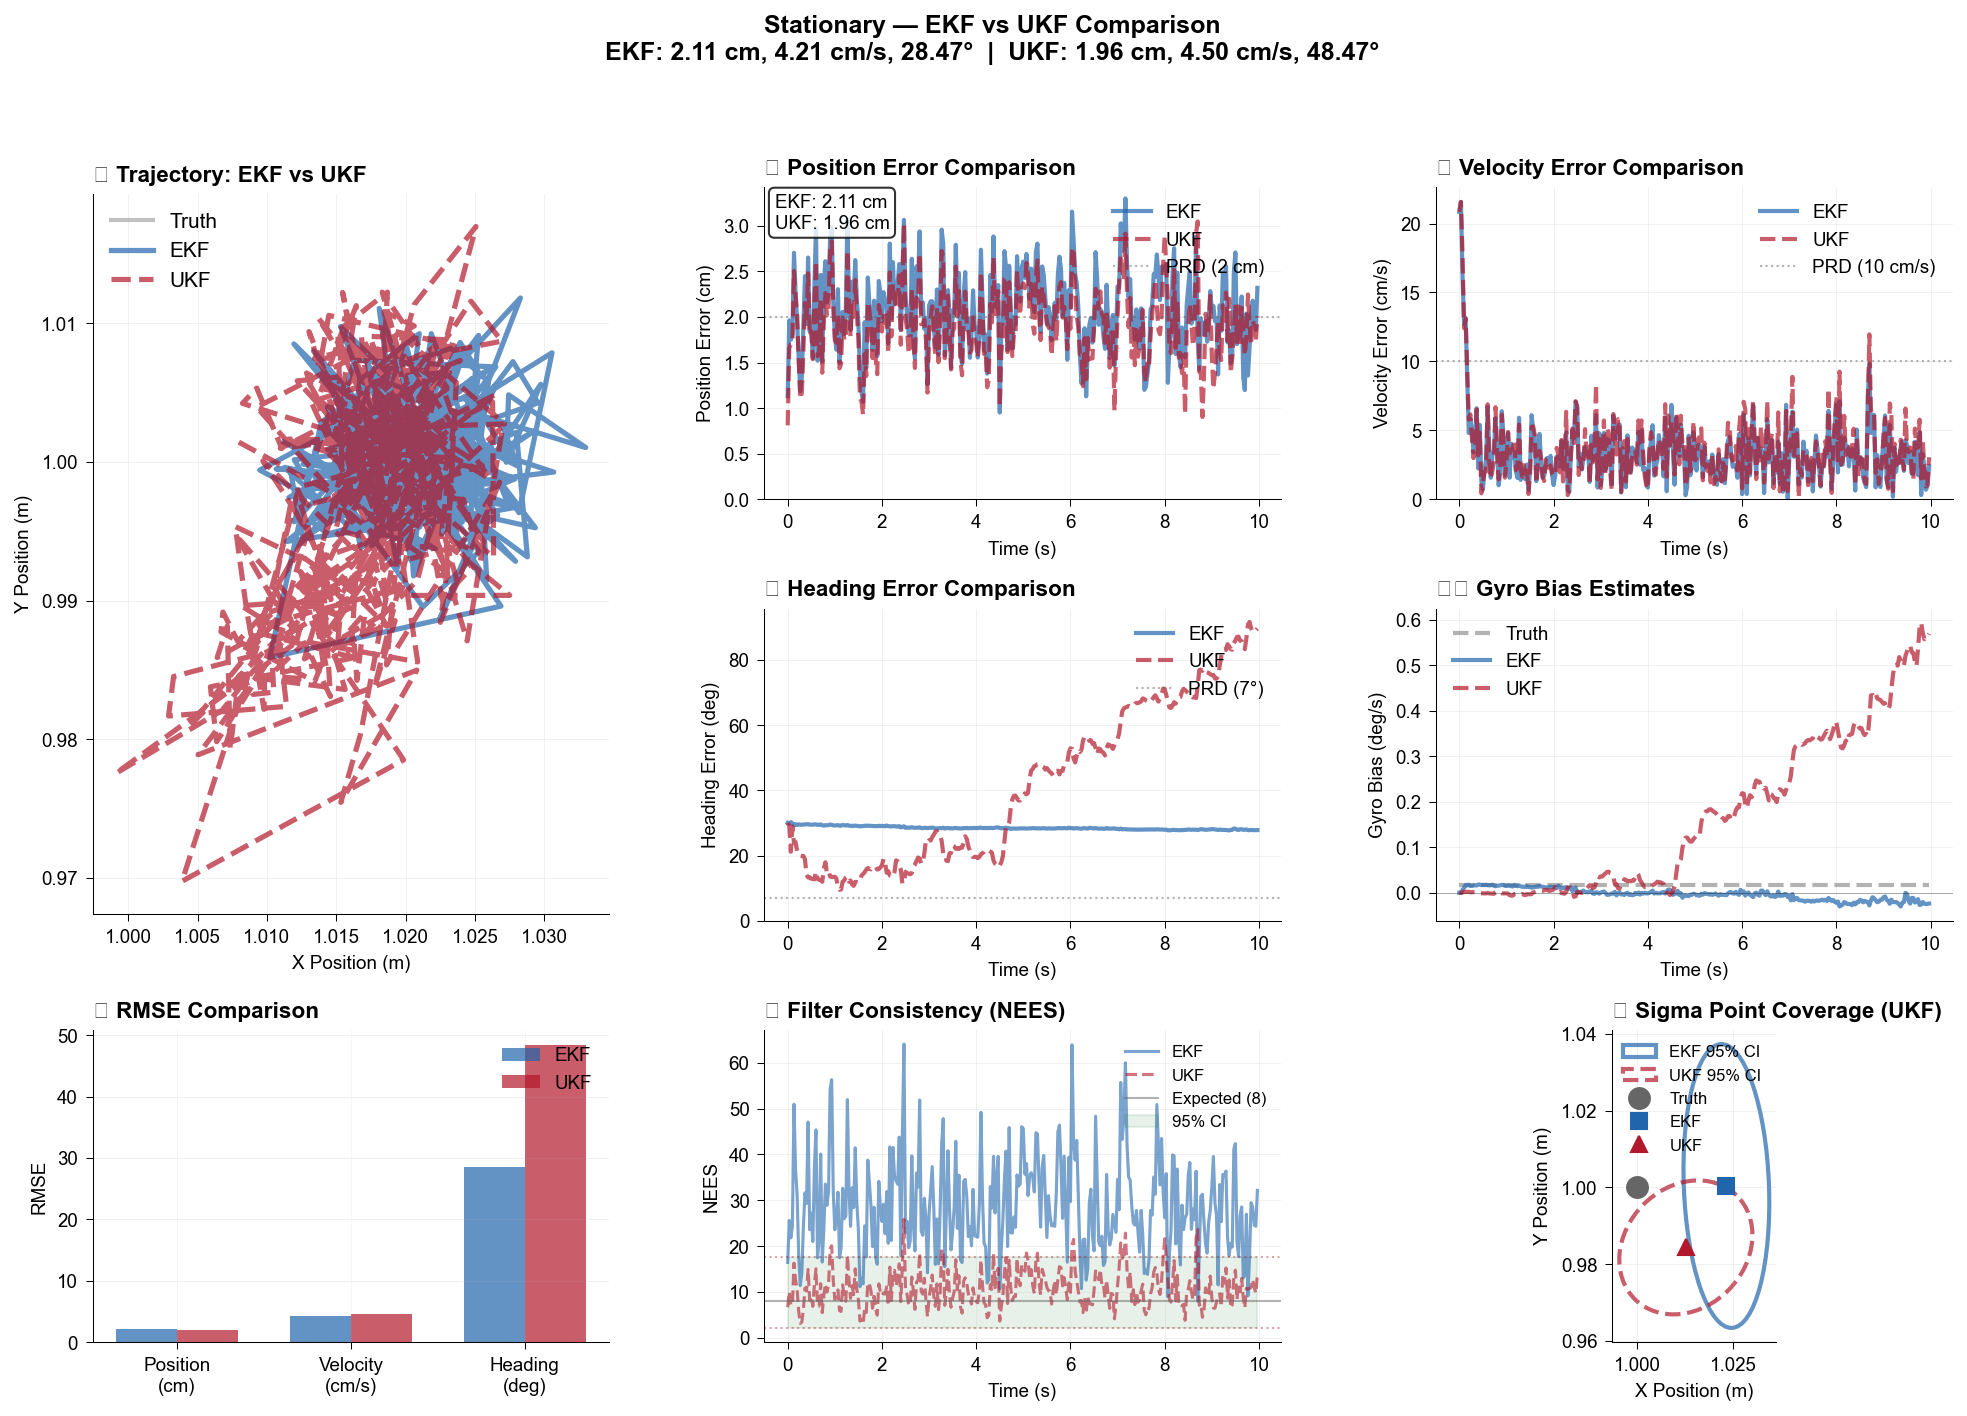
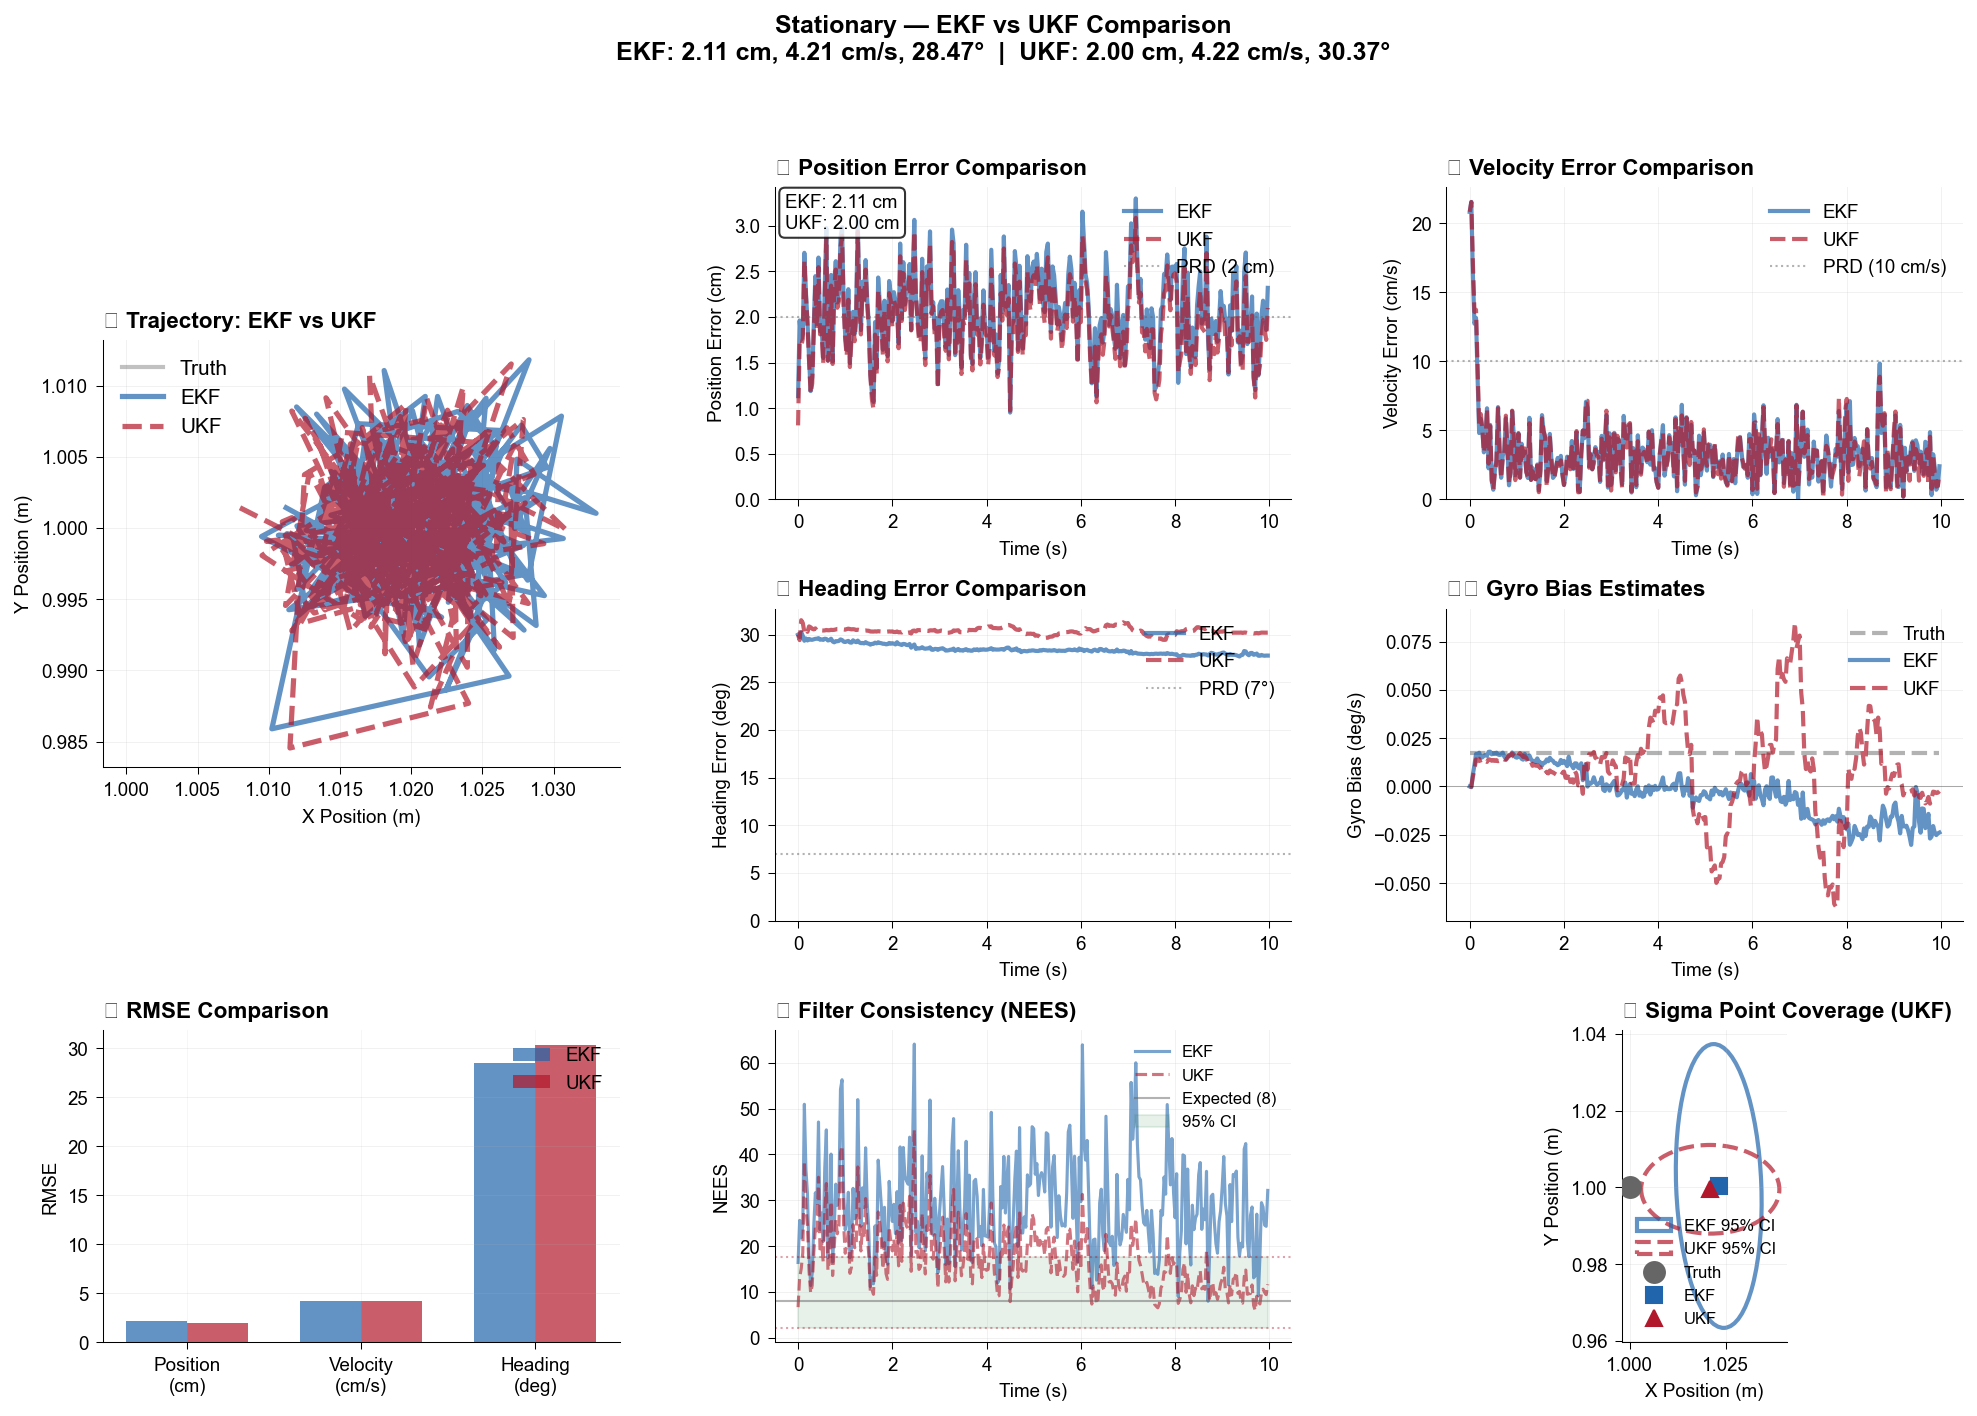
Fix UKF heading mean calculation using circular mean
Replaces arithmetic mean with circular mean for heading in UKF prediction and update steps to correctly handle angle wrap-around. Adds a regression test to verify correct behavior when sigma points straddle the 0°/360° boundary, preventing large heading estimation errors.

diff --git a/tests/filters/test_ukf_heading_measurement.py b/tests/filters/test_ukf_heading_measurement.py
@@ -203,3 +203,79 @@ def test_ukf_heading_basic_functionality():
 
     # Marginal log-likelihood should be finite
     assert np.isfinite(result_filtered.marginal_loglik)
+
+
+def test_ukf_circular_mean_near_wrap_point():
+    """UKF should use circular mean for heading, not arithmetic mean.
+
+    Regression test for bug where UKF used arithmetic mean for heading sigma
+    points. When sigma points straddle 0°/360°, arithmetic mean gives wrong
+    result (e.g., 180° instead of 0°).
+
+    This test simulates a rat starting near 0° heading with enough uncertainty
+    that sigma points spread across the wrap point.
+    """
+    # Simulate circular motion starting near 0° heading
+    # Circular motion ensures continuous rotation through 0°/360°
+    config_sim = SimpleSimConfig(
+        duration_s=10.0,
+        fs_cam=30.0,
+        fs_imu=200.0,
+        cam_dropout_prob=0.0,  # No dropouts for clean test
+    )
+
+    # Simulate circular motion (heading wraps multiple times)
+    result = simulate_circular(config=config_sim, radius=0.5, seed=42)
+
+    # UKF config with moderate heading uncertainty
+    config = UKFConfig(
+        use_heading_measurement=True,
+        measurement_noise_pos=0.005**2,
+        measurement_noise_heading=0.05**2,  # ~3° heading noise
+        process_noise_heading=1e-3,  # Moderate uncertainty growth
+        led_distance=0.04,
+        alpha=1.0,  # Standard sigma-point spread
+    )
+
+    # Run UKF
+    result_ukf = unscented_kalman_filter(
+        ukf_config=config,
+        t_imu=result["t_imu"],
+        U_imu=result["U_imu"],
+        t_cam=result["t_cam_obs"],
+        Z_cam_led1=result["Z_cam_led1"],
+        Z_cam_led2=result["Z_cam_led2"],
+        mask_cam=result["mask_cam"],
+    )
+
+    # Extract heading estimates
+    X_est = np.array(result_ukf.filtered_means)
+    heading_est = X_est[:, 4]
+
+    # Ground truth heading from simulation
+    from trodestrack.sim.utils import interp_angle
+
+    X_truth = result["X_truth"]
+    t_imu = result["t_imu"]
+    t_cam = result["t_cam_obs"]
+    heading_truth = interp_angle(t_cam, t_imu, X_truth[:, 4])
+
+    # Compute heading RMSE
+    def angle_diff(a, b):
+        return np.arctan2(np.sin(a - b), np.cos(a - b))
+
+    heading_errors = np.abs(angle_diff(heading_est, heading_truth))
+    heading_rmse = np.rad2deg(np.sqrt(np.mean(heading_errors**2)))
+
+    # With circular mean fix, heading RMSE should be reasonable (<10°)
+    # Without fix, circular mean error could cause large biases
+    print(f"UKF Heading RMSE: {heading_rmse:.2f}°")
+    assert heading_rmse < 10.0, f"Heading RMSE too high: {heading_rmse:.2f}° (circular mean bug?)"
+
+    # Check that heading estimates stay bounded in [-π, π]
+    assert np.all(heading_est >= -np.pi - 0.01)  # Small tolerance for numerical error
+    assert np.all(heading_est <= np.pi + 0.01)
+
+    # All estimates should be finite
+    assert np.all(np.isfinite(X_est))
+    assert np.all(np.isfinite(result_ukf.filtered_covariances))

diff --git a/src/trodestrack/models/ukf.py b/src/trodestrack/models/ukf.py
@@ -328,11 +328,26 @@ def predict_step(
     sigmas_prop = vmap(f)(sigmas)  # (17, 8)
 
     # Reconstruct predicted mean (weighted sum)
+    # Note: For heading dimension, we need circular mean, but it's handled below
     m_pred = jnp.tensordot(w_mean, sigmas_prop, axes=1)
+
+    # Fix heading component using circular mean
+    # Arithmetic mean fails for angles when sigma points straddle 0°/360°
+    h_idx = get_heading_index(layout)
+    sigmas_heading_prop = sigmas_prop[:, h_idx]
+    sin_weighted = w_mean @ jnp.sin(sigmas_heading_prop)
+    cos_weighted = w_mean @ jnp.cos(sigmas_heading_prop)
+    m_pred = m_pred.at[h_idx].set(jnp.arctan2(sin_weighted, cos_weighted))
 
     # Reconstruct predicted covariance
     # Cov = Σ w_cov[i] * (sigma_prop[i] - m_pred) * (sigma_prop[i] - m_pred)^T
     deviations = sigmas_prop - m_pred
+
+    # Wrap heading deviations to [-π, π] for correct covariance computation
+    # Without this, heading deviations can be 358° instead of 2°
+    heading_deviations = wrap_angle(deviations[:, h_idx])
+    deviations = deviations.at[:, h_idx].set(heading_deviations)
+
     P_pred = jnp.tensordot(w_cov, _outer_product_batch(deviations, deviations), axes=1)
 
     # Add process noise Q using shared assembly for parity with EKF/smoothers
@@ -540,8 +555,12 @@ def update_heading(
         h_idx = get_heading_index(layout)
         sigmas_heading = sigmas[:, h_idx]  # (2n+1,)
 
-        # Predicted heading
-        h_pred = w_mean @ sigmas_heading
+        # Predicted heading using circular mean (not arithmetic mean!)
+        # For angles, we must use: atan2(Σ w_i sin(θ_i), Σ w_i cos(θ_i))
+        # Arithmetic mean fails when sigma points straddle 0°/360°
+        sin_weighted = w_mean @ jnp.sin(sigmas_heading)
+        cos_weighted = w_mean @ jnp.cos(sigmas_heading)
+        h_pred = jnp.arctan2(sin_weighted, cos_weighted)
 
         # Get innovation from model (already angle-wrapped)
         innovation_vec = heading_model.innovation(frame_idx, jnp.array([h_pred]))
